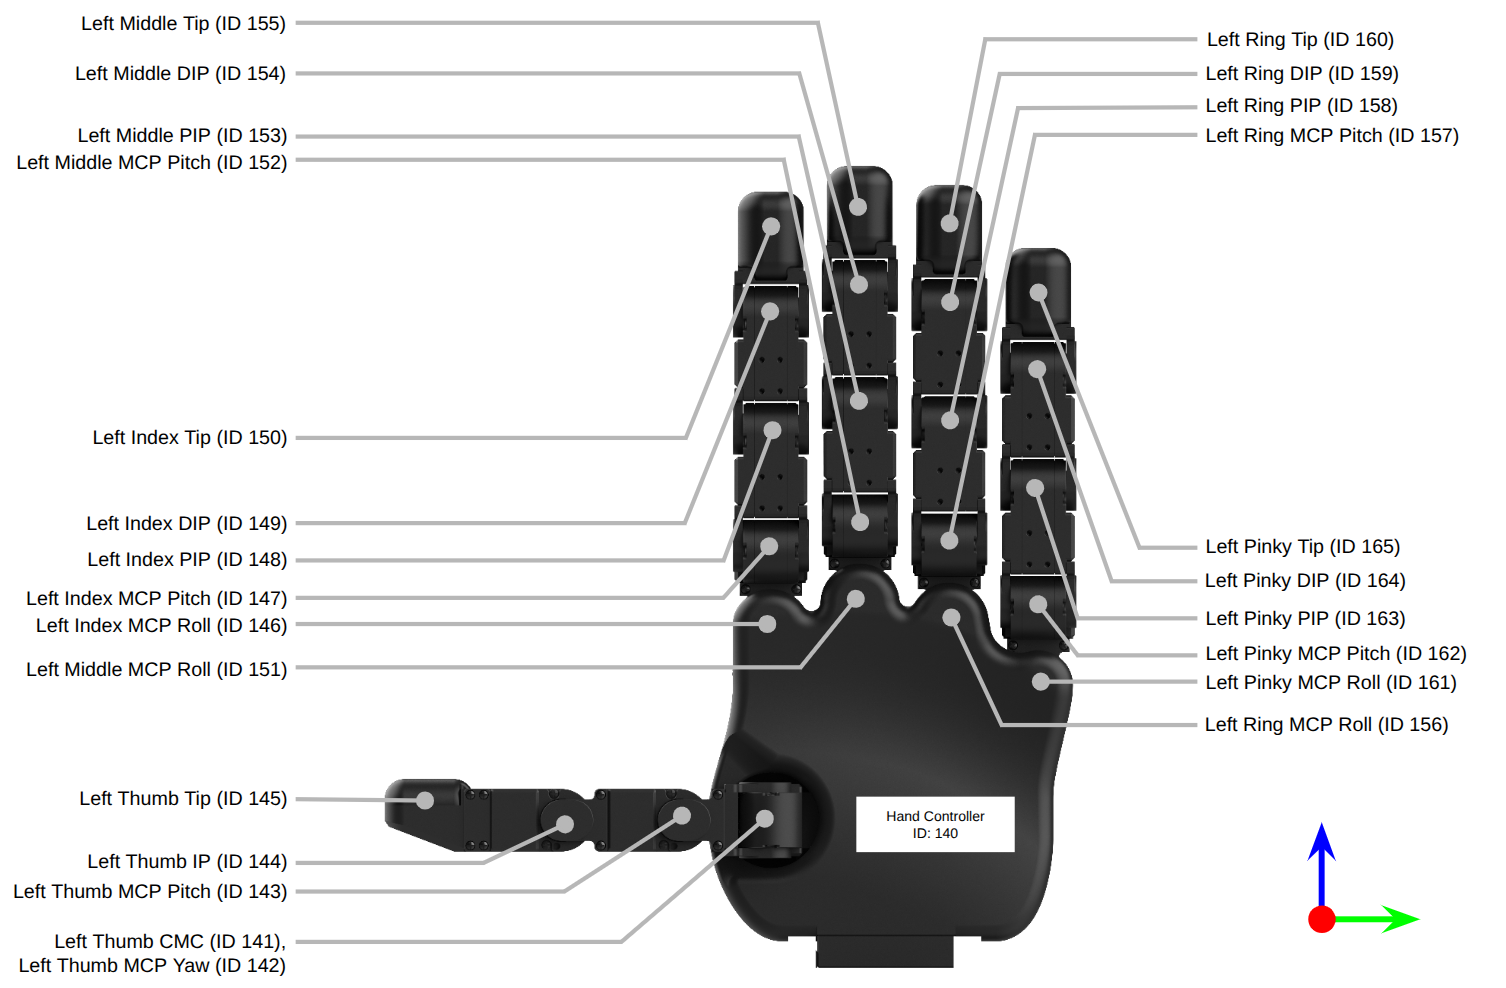
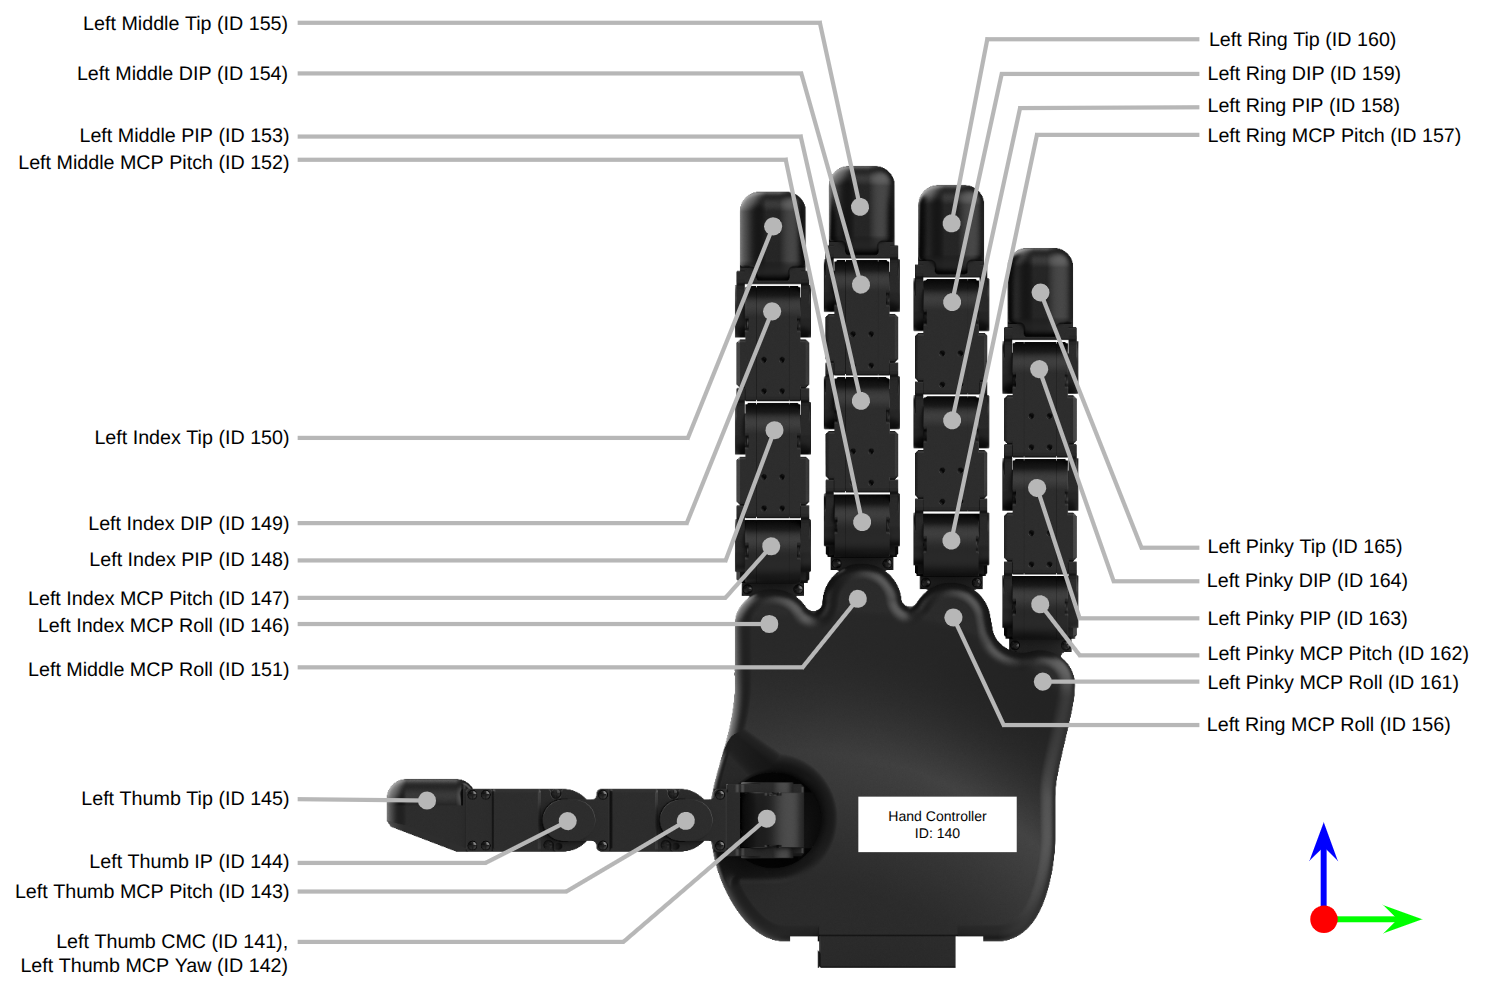
Edit hand introduction and specifications pictures

diff --git a/docs/hands/introduction_hands.md b/docs/hands/introduction_hands.md
@@ -1,6 +1,6 @@
 # About ROBOTIS Hand
 
-<img src="/aiworker_hx5_d20.png" width="500"/>
+<img src="/aiworker_hx5_d20_crop.png" width="350"/>
 
 The **ROBOTIS HX Hand** series marks the future of robotic manipulation, blending mechanical precision with advanced intelligence. Built on the foundation of our reliable Dynamixel Smart Actuators, the ROBOTIS Hand utilizes a human hand-mimicking structure integrated with cutting-edge Physical AI. This design allows the hand to move beyond simple grasping. It actively perceives object texture and shape, enabling it to perform complex high-dexterity tasks with precision.
 
